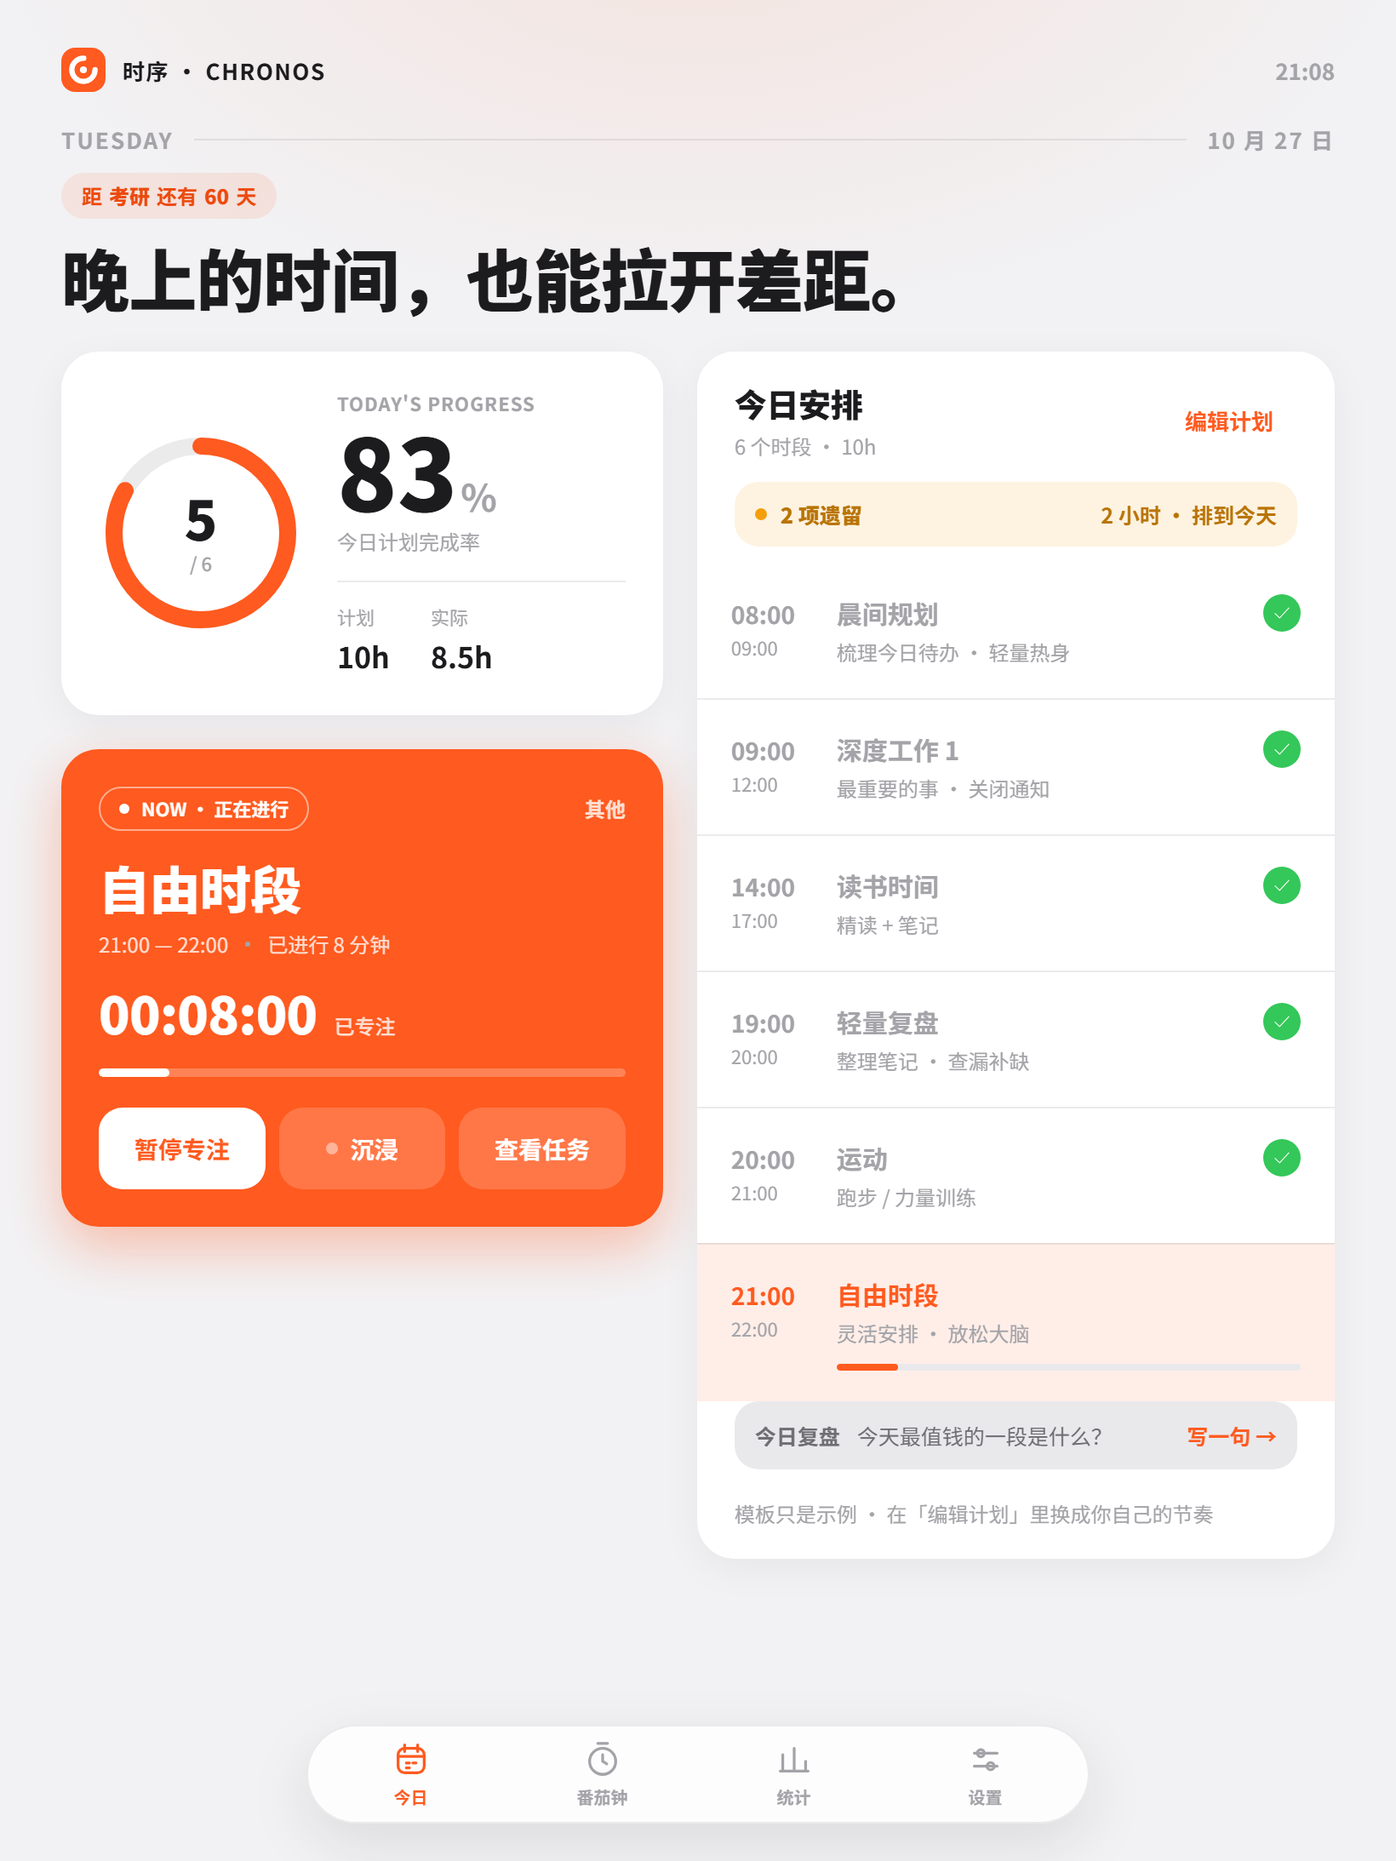
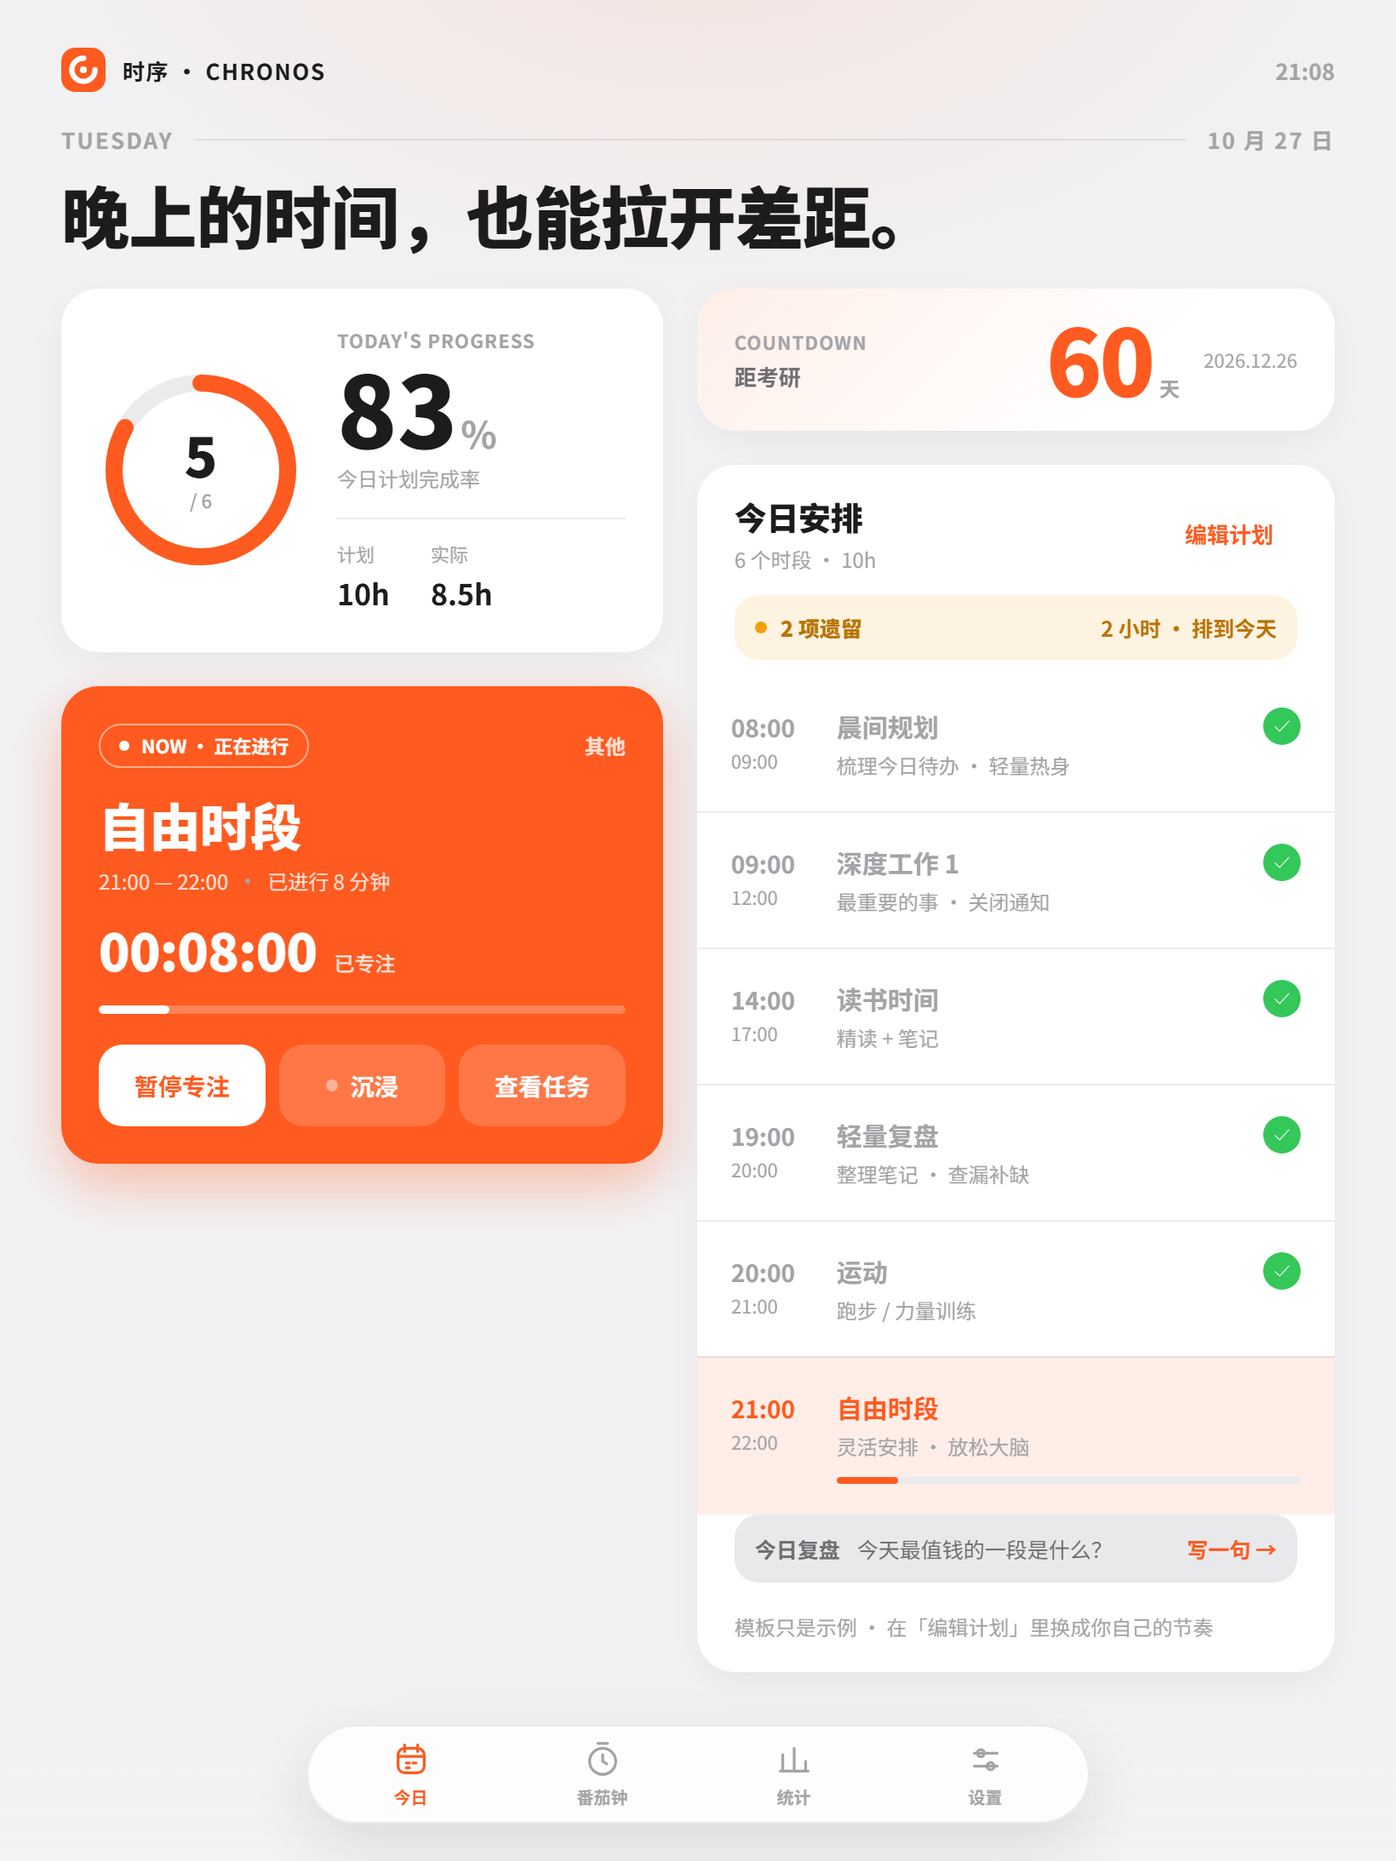
2.6.4：统计页重排、倒计时改版、修复番茄当前任务不同步
- 统计页去掉与总结重复的「深度分析」和与番茄页重复的「番茄趋势」
- 平板横屏改为 6 列栅格（3+3 / 4+2 / 2+4），周报入口并入区间切换行
- 考试倒计时从星期下面移到「今日安排」上方，改成大号数字卡片
- 番茄钟「当前任务」空闲时跟随当前时段；重置 / 删除任务会解绑；沉浸页实时取任务标题
- 版本 2.6.4 / versionCode 19

diff --git a/app/src/main/assets/www/app.js b/app/src/main/assets/www/app.js
@@ -577,15 +577,16 @@ function examDays() {
   return Math.round((target - parseKey(todayKey())) / 86400000);
 }
 
-function renderExamPill() {
-  const el = $('#examPill');
+function renderExamBanner() {
+  const el = $('#examBanner');
   if (!el) return;
   const d = examDays();
   if (d == null || d < 0) { el.hidden = true; return; }
   el.hidden = false;
-  el.innerHTML = d === 0
-    ? `今天 · ${esc(state.exam.label)}`
-    : `距<b>${esc(state.exam.label)}</b>还有<b>${d}</b>天`;
+  const label = (state.exam && state.exam.label) || '考研';
+  $('#ebTitle').textContent = d === 0 ? `今天 · ${label}` : `距${label}`;
+  $('#ebDays').textContent = d;
+  $('#ebDate').textContent = state.exam.date.replace(/-/g, '.');
   el.onclick = () => { haptic('light'); openExamSheet(); };
 }
 
@@ -821,7 +822,7 @@ function renderHome() {
 
   renderNow();
   renderTimeline();
-  renderExamPill();
+  renderExamBanner();
   renderCarryBanner();
   renderReviewBar();
   updateClocks();
@@ -1255,6 +1256,7 @@ function openTaskSheet(t, keep) {
         else if (act === 'delete') { armDelete(btn, () => {
           const r = todayRec();
           if (r) r.tasks = r.tasks.filter(x => x.id !== live.id);
+          if (state.pomo.taskId === live.id) { state.pomo.taskId = null; state.pomo.taskTitle = ''; }
           save(true); closeSheet(); renderHome(); refreshStats(); syncGuard();
           toast('已从今日计划删除');
         }); }
@@ -1411,6 +1413,7 @@ function openPlanSheet() {
         e.stopPropagation();
         armDelete(btn, () => {
           rec.tasks = rec.tasks.filter(x => x.id !== btn.dataset.del);
+          if (state.pomo.taskId === btn.dataset.del) { state.pomo.taskId = null; state.pomo.taskTitle = ''; }
           save(true);
           closeSheet();
           renderHome();
@@ -1535,9 +1538,12 @@ function pomoLinkedTask() {
   const rec = todayRec();
   if (!rec) return null;
   const p = state.pomo;
-  if (p.taskId) {
+  // 只有「这一轮已经开始（运行或暂停在中途）」才认绑定任务；
+  // 空闲状态下跟着当前时间段走，否则会一直显示上一次的旧任务。
+  const inSession = p.running || p.remain < pomoTotal() - .5;
+  if (inSession && p.taskId) {
     const t = rec.tasks.find(x => x.id === p.taskId);
-    if (t) return t;
+    if (t && t.status !== 'done' && t.status !== 'skipped') return t;
   }
   const info = currentInfo(rec);
   return info && (info.mode === 'active' || info.mode === 'doing') ? info.task : null;
@@ -1588,6 +1594,8 @@ function pomoReset() {
   p.startAt = null;
   p.phase = 'focus';
   p.remain = pomoTotal();
+  p.taskId = null;      // 重置后不再绑定旧任务
+  p.taskTitle = '';
   save();
   syncGuard();
   renderFocus();
@@ -1707,6 +1715,8 @@ function setPomoPreset(v) {
   p.running = false;
   p.endAt = null;
   p.startAt = null;
+  p.taskId = null;
+  p.taskTitle = '';
   save(true);
   haptic('light');
   renderFocus();
@@ -1758,9 +1768,10 @@ function renderImmerse() {
   $('#imPause').textContent = p.running
     ? (isBreak ? '暂停休息' : '暂停')
     : (isBreak ? '继续休息' : '继续');
+  const linked = isBreak ? null : pomoLinkedTask();
   $('#imTask').textContent = isBreak
     ? (p.round ? `已完成 ${p.round} 个番茄` : '休息一下，再回来')
-    : (p.taskTitle || '自由专注 · 不绑定具体任务');
+    : (linked ? linked.title : '自由专注 · 不绑定具体任务');
   $('#imBar').style.width = (100 - clamp(remain / total, 0, 1) * 100).toFixed(2) + '%';
 }
 
@@ -1831,7 +1842,7 @@ function guardSession() {
   if (p.running && p.phase === 'focus' && p.endAt && p.endAt > Date.now()) {
     return {
       endAt: p.endAt,
-      title: p.taskTitle || '',
+      title: (pomoLinkedTask() || {}).title || p.taskTitle || '',
       minutes: Math.round(pomoTotal() / 60)
     };
   }
@@ -2310,9 +2321,9 @@ function renderFocus() {
     `<i class="${i < done ? 'done' : ''}${i === nowIdx ? ' now' : ''}"></i>`).join('');
 
   const t = pomoLinkedTask();
-  $('#pomoTask').innerHTML = t
-    ? `当前任务 · <b>${esc(t.title)}</b>`
-    : '自由专注 · 不绑定具体任务';
+  $('#pomoTask').innerHTML = isBreak
+    ? (p.round ? `已完成 ${p.round} 个番茄 · 先休息` : '休息一下，不绑定任务')
+    : (t ? `当前任务 · <b>${esc(t.title)}</b>` : '自由专注 · 不绑定具体任务');
 
   const list = pomoTodayList();
   $('#pomoSummary').innerHTML = `
@@ -2501,27 +2512,14 @@ function renderStats() {
     return `<div class="heat-cell ${lvl} ${k === todayKey() ? 'is-today' : ''}" title="${k} · ${hText(sec)}"></div>`;
   }).join('');
 
-  // 番茄趋势（近 7 天）
-  const pkeys = lastDays(7);
-  renderPomoBars($('#statsPomoBars'), pkeys, pkeys.map(k => (pomoMap[k] || []).length));
-  $('#pomoWeekLegend').textContent = pomoWeekCount() + ' 个';
-
-  // 深度分析
+  // 与上一周期对比
   const prevKeys = lastDays(range * 2).slice(0, range);
   const prevActual = prevKeys.reduce((a, k) => a + daySummary(state.days[k]).actual, 0);
   const diff = prevActual > 0 ? Math.round((totalActual - prevActual) / prevActual * 100) : null;
-  const avgPomo = pomoCount ? Math.round(pomoMins / pomoCount) : 0;
   const bestIdx = sums.reduce((mi, s, i) => s.actual > sums[mi].actual ? i : mi, 0);
   const bestDay = sums.length && sums[bestIdx].actual > 0
     ? DOW_CN[parseKey(keys[bestIdx]).getDay()] + ' · ' + hText(sums[bestIdx].actual)
     : '——';
-
-  $('#insightList').innerHTML = `
-    <div class="report-row"><span>日均学习时长</span><b>${hText(avg)}</b></div>
-    <div class="report-row"><span>状态最好的时段</span><b>${recSpanAvg()}</b></div>
-    <div class="report-row"><span>单日最高投入</span><b>${bestDay}</b></div>
-    <div class="report-row"><span>番茄平均时长</span><b>${avgPomo ? avgPomo + ' 分钟' : '——'}</b></div>
-    <div class="report-row"><span>较上一周期</span><b>${diff == null ? '——' : (diff >= 0 ? '+' : '') + diff + '%'}</b></div>`;
 
   // 阶段总结
   const subjBest = subjArr[0] ? subjArr[0].s : '——';
@@ -2535,7 +2533,9 @@ function renderStats() {
       <div class="report-row"><span>计划完成率</span><b>${rate}%</b></div>
       <div class="report-row"><span>番茄专注</span><b>${pomoCount} 个 · ${hText(pomoMins * 60)}</b></div>
       <div class="report-row"><span>投入最多的分类</span><b>${subjBest}</b></div>
+      <div class="report-row"><span>单日最高投入</span><b>${bestDay}</b></div>
       <div class="report-row"><span>最稳定的时段</span><b>${win}</b></div>
+      <div class="report-row"><span>较上一周期</span><b>${diff == null ? '——' : (diff >= 0 ? '+' : '') + diff + '%'}</b></div>
       <div class="report-row"><span>完成 / 跳过</span><b>${doneCount} / ${sums.reduce((a, s) => a + s.skipped, 0)}</b></div>
     </div>
     ${state.demo ? '<div class="report-row" style="margin-top:12px;font-size:10px;color:var(--ink-3)">含演示数据 · 可在设置中清除</div>' : ''}`;

diff --git a/app/src/main/assets/www/styles.css b/app/src/main/assets/www/styles.css
@@ -997,10 +997,19 @@ body:not(.motion) .sheet-panel, body:not(.motion) .sheet-backdrop { transition: 
 @media (min-width: 760px) and (min-height: 600px) {
   :root { --pad-card: 22px; --gap-card: 20px; }
   .scroll { padding: calc(var(--sat) + 28px) 36px calc(var(--sab) + 128px); }
-  .home-grid { display: grid; grid-template-columns: 1fr 1.06fr; gap: var(--gap-card); align-items: start; }
+  .home-grid {
+    display: grid;
+    grid-template-columns: 1fr 1.06fr;
+    grid-template-areas: "main exam" "main side";
+    gap: var(--gap-card);
+    align-items: start;
+  }
+  .home-main { grid-area: main; }
+  .exam-banner { grid-area: exam; }
+  .home-side { grid-area: side; }
   .focus-grid { display: grid; grid-template-columns: 1.05fr 1fr; gap: 20px; align-items: start; }
   .stats-grid { display: grid; grid-template-columns: 1fr 1fr; gap: 18px; }
-  .stats-grid .span-2, .stat-hero { grid-column: span 2; }
+  .stat-hero, .goal-card, .stats-grid [data-detail="daily"], .report-card { grid-column: span 2; }
   .settings-grid { display: grid; grid-template-columns: 1fr 1fr; gap: 20px; align-items: start; }
   .tabbar {
     left: 50%; right: auto; bottom: calc(var(--sab) + 22px);
@@ -1028,8 +1037,14 @@ body:not(.motion) .sheet-panel, body:not(.motion) .sheet-backdrop { transition: 
 
 @media (min-width: 900px) {
   .scroll { padding-left: 44px; padding-right: 44px; }
-  .stats-grid { grid-template-columns: repeat(3, 1fr); }
-  .stats-grid .span-2, .stat-hero { grid-column: span 2; }
+  /* 6 列栅格：两行 3+3，图表 4+2 / 2+4，避免 3 等分时出现空洞 */
+  .stats-grid { grid-template-columns: repeat(6, 1fr); }
+  .stat-hero { grid-column: span 3; }
+  .goal-card { grid-column: span 3; }
+  .stats-grid [data-detail="daily"] { grid-column: span 4; }
+  .stats-grid [data-detail="category"] { grid-column: span 2; }
+  .stats-grid [data-detail="rhythm"] { grid-column: span 2; }
+  .report-card { grid-column: span 4; }
   .sheet-panel { width: 640px; }
 }
 
@@ -1235,17 +1250,22 @@ body:not(.motion) .sheet-panel, body:not(.motion) .sheet-backdrop { transition: 
 .avatar-custom-btns { display: flex; flex-direction: column; gap: 8px; }
 
 /* ============ 倒计时 / 遗留 / 复盘 / 目标 ============ */
-.exam-pill {
-  display: inline-flex; align-items: center; gap: 4px;
-  margin-top: 10px; height: 27px; padding: 0 12px;
-  border-radius: 999px;
-  background: var(--accent-soft);
-  color: var(--accent-deep);
-  font-size: 12px; font-weight: 600;
+.exam-banner {
+  display: flex; align-items: center; gap: 14px;
+  padding: 16px var(--pad-card);
   cursor: pointer;
+  text-align: left;
+  background: linear-gradient(135deg, var(--accent-soft), transparent 68%), var(--card);
 }
-.exam-pill b { font-weight: 800; }
-[data-theme="dark"] .exam-pill { color: var(--accent); }
+.exam-banner .eb-main { flex: 1; min-width: 0; }
+.exam-banner .eb-title { margin-top: 2px; font-size: 13px; font-weight: 700; color: var(--ink-2); }
+.exam-banner .eb-days { display: flex; align-items: baseline; gap: 4px; color: var(--accent); }
+.exam-banner .eb-days b {
+  font-size: clamp(38px, 8.5vw, 54px); font-weight: 800;
+  line-height: .9; letter-spacing: -.03em; font-variant-numeric: tabular-nums;
+}
+.exam-banner .eb-days span { font-size: 12px; font-weight: 700; color: var(--ink-3); }
+.exam-banner .eb-date { font-size: 11px; color: var(--ink-3); font-variant-numeric: tabular-nums; }
 
 .leftover-row {
   display: flex; align-items: center; gap: 8px;
@@ -1282,10 +1302,10 @@ body:not(.motion) .sheet-panel, body:not(.motion) .sheet-backdrop { transition: 
 .review-bar.is-done .rv-label,
 .review-bar.is-done .rv-text { color: var(--accent-deep); }
 
-.stats-actions { display: flex; justify-content: flex-end; margin: -14px 0 18px; }
+.stats-tools { display: flex; align-items: center; justify-content: space-between; gap: 12px; margin: 6px 0 24px; }
+.stats-tools .range-seg { margin: 0; }
 
 .goal-card { padding: var(--pad-card); }
-.stats-grid .span-all { grid-column: 1 / -1; }
 .goal-numbers { display: flex; align-items: baseline; gap: 8px; }
 .goal-numbers b { font-size: 34px; font-weight: 800; line-height: 1; font-variant-numeric: tabular-nums; }
 .goal-numbers span { font-size: 12px; color: var(--ink-3); }

diff --git a/app/src/main/assets/www/index.html b/app/src/main/assets/www/index.html
@@ -27,7 +27,6 @@
             <span class="live-clock" id="liveClock">--:--</span>
           </div>
           <div class="date-line"><span id="dow">MONDAY</span><span class="sep"></span><span id="dateText">10 月 26 日</span></div>
-          <div class="exam-pill" id="examPill" hidden></div>
           <h1 id="greeting">今天，保持自己的节奏。</h1>
         </header>
 
@@ -63,6 +62,15 @@
             <section class="now-card glass" id="nowCard"></section>
 
           </div>
+
+          <section class="exam-banner glass" id="examBanner" hidden>
+            <div class="eb-main">
+              <div class="micro-label">COUNTDOWN</div>
+              <div class="eb-title" id="ebTitle">距考研</div>
+            </div>
+            <div class="eb-days"><b id="ebDays">0</b><span>天</span></div>
+            <div class="eb-date" id="ebDate"></div>
+          </section>
 
           <div class="home-side">
             <section class="schedule-card glass">
@@ -178,12 +186,12 @@
           </div>
           <div class="date-line"><span>STATISTICS</span><span class="sep"></span><span>数据统计</span></div>
           <h1>把时间，<br>变成看得见的进步。</h1>
-          <div class="seg range-seg" id="rangeSeg">
-            <button data-range="7" class="on">近 7 天</button>
-            <button data-range="30">近 30 天</button>
-            <span class="seg-glider" id="rangeGlider"></span>
-          </div>
-          <div class="stats-actions">
+          <div class="stats-tools">
+            <div class="seg range-seg" id="rangeSeg">
+              <button data-range="7" class="on">近 7 天</button>
+              <button data-range="30">近 30 天</button>
+              <span class="seg-glider" id="rangeGlider"></span>
+            </div>
             <button class="ghost-btn" id="btnWeekly">本周周报</button>
           </div>
         </header>
@@ -191,7 +199,7 @@
         <div class="stats-grid">
           <div class="stat-hero glass tap-card" id="statHero" data-detail="overview"></div>
 
-          <section class="goal-card glass span-all" id="goalCard"></section>
+          <section class="goal-card glass" id="goalCard"></section>
 
           <div class="chart-card glass tap-card" data-detail="daily">
             <div class="card-head">
@@ -227,28 +235,7 @@
             <div class="heat-legend"><span>少</span><i class="h0"></i><i class="h1"></i><i class="h2"></i><i class="h3"></i><i class="h4"></i><span>多</span></div>
           </div>
 
-          <div class="chart-card glass tap-card" data-detail="pomo">
-            <div class="card-head">
-              <div>
-                <div class="micro-label">POMODORO</div>
-                <h2 class="card-title">番茄趋势</h2>
-              </div>
-              <div class="chart-legend" id="pomoWeekLegend">0 个</div>
-            </div>
-            <div class="bars pomo-bars" id="statsPomoBars"></div>
-          </div>
-
-          <div class="chart-card glass tap-card" data-detail="insight">
-            <div class="card-head">
-              <div>
-                <div class="micro-label">INSIGHTS</div>
-                <h2 class="card-title">深度分析</h2>
-              </div>
-            </div>
-            <div class="report-list" id="insightList"></div>
-          </div>
-
-          <div class="report-card glass span-2" id="reportCard"></div>
+          <div class="report-card glass" id="reportCard"></div>
         </div>
       </div>
     </section>
@@ -398,7 +385,7 @@
               </div>
               <div class="about-title">时序 · Chronos</div>
               <div class="about-sub">让每一段时间，都有明确的方向。</div>
-              <div class="about-ver" id="aboutVer">Version 2.6.3 · 个人版</div>
+              <div class="about-ver" id="aboutVer">Version 2.6.4 · 个人版</div>
               <div class="about-hint" id="envHint"></div>
             </div>
           </div>

diff --git a/README.md b/README.md
@@ -8,7 +8,7 @@
 
 为考研冲刺打造的 Android 时间管理应用 —— 计划、专注、复盘，一个闭环。
 
-[![version](https://img.shields.io/badge/version-2.6.3-FF5A1F?style=flat-square)]()
+[![version](https://img.shields.io/badge/version-2.6.4-FF5A1F?style=flat-square)]()
 [![platform](https://img.shields.io/badge/platform-Android%208.0%2B-3DDC84?style=flat-square)]()
 [![deps](https://img.shields.io/badge/deps-zero-0074D9?style=flat-square)]()
 [![build](https://img.shields.io/badge/build-No%20Gradle-24292E?style=flat-square)]()
@@ -152,6 +152,7 @@ chronos/
 
 | 版本 | 内容 |
 |:---|:---|
+| **2.6.4** | 统计页重排：去掉与总结重复的「深度分析」和与番茄页重复的「番茄趋势」，平板横屏改为 6 列栅格（3+3 / 4+2 / 2+4），不再留空洞；考试倒计时从星期下面移到「今日安排」上方，改成大号数字卡片；修复番茄钟「当前任务」一直停在旧任务的问题（空闲时跟随当前时段，重置 / 删除任务会解绑） |
 | **2.6.3** | 新功能：未完成任务次日遗留提示与一键顺延；每日一句复盘 + 一键生成周报分享；首页考试倒计时；本周目标进度与里程碑（累计时长 / 连续天数 / 番茄数）；2×2 桌面小组件（今日进度、下一项、倒计时、一键开始） |
 | **2.6.2** | 首页布局重排：「今日安排」标题收进卡片，平板两列卡片对齐同一条基线，卡片内边距与间距统一；小屏压缩进度卡，首屏就能看到今日安排。修复 Windows 版 aapt2 把 assets 写成反斜杠、WebView 报 `ERR_FILE_NOT_FOUND` 的问题（改用 jar 打包 assets） |
 | **2.6.1** | 省电与流畅：息屏时暂停前台应用轮询；番茄页 / 统计页改为切页时按需渲染；闹钟按签名去重，不再每次保存全量重建。修复：键盘遮挡弹层表单、返回键直达退出、跨天未停的计时无限累加、跳过 / 删除任务不停表、完成态补时暂停后退回待开始、番茄与任务计时对同一任务重复计时、详情页日均口径不一致 |
